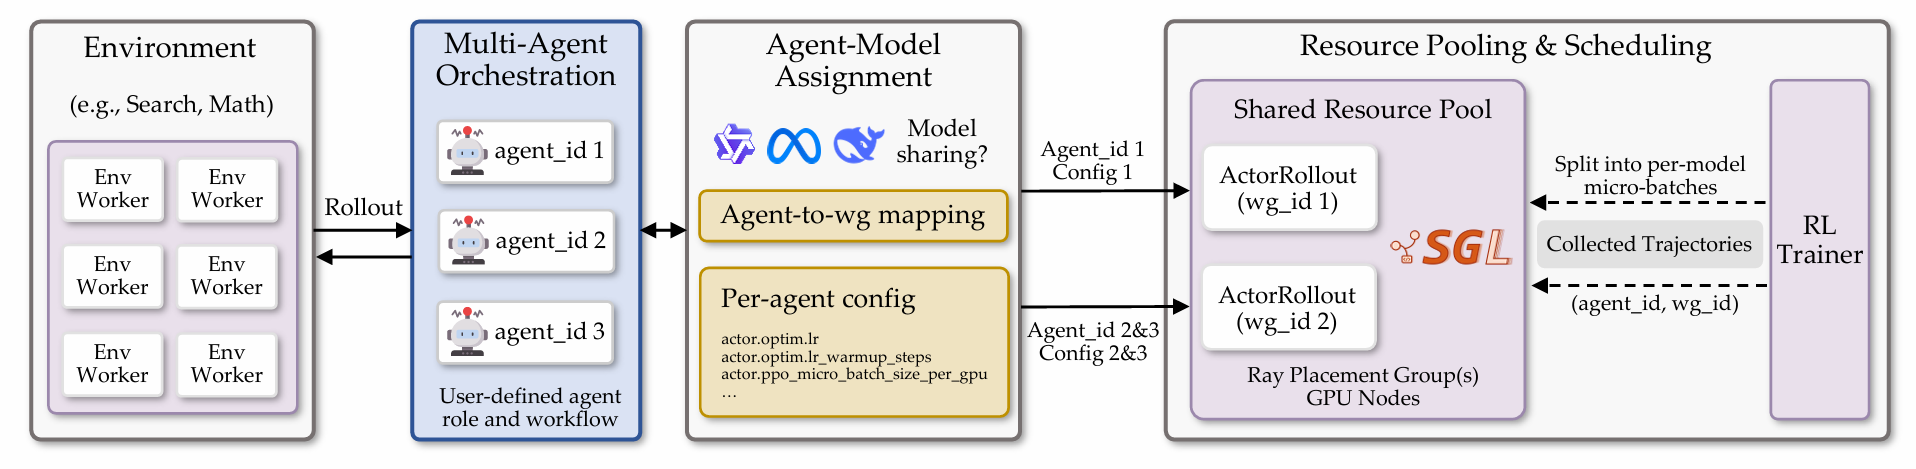
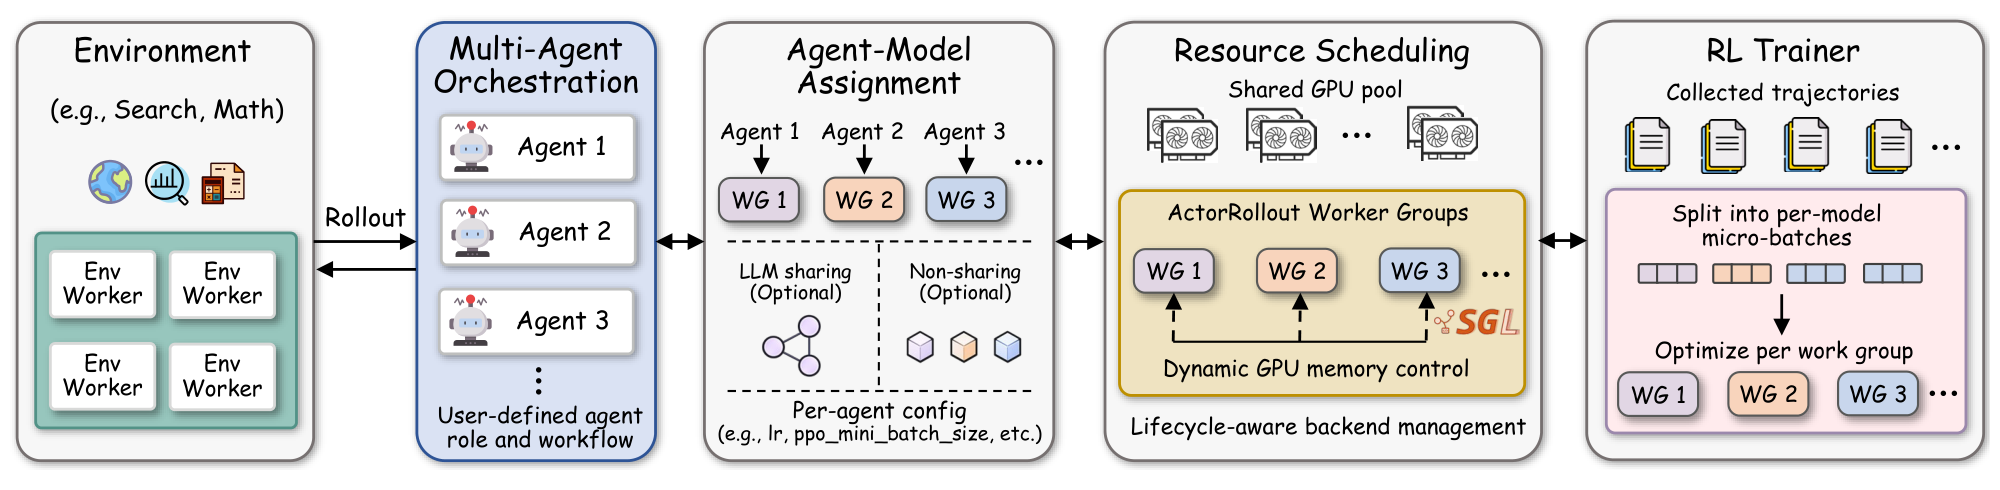
Accepted to NeurIPS 2026 (#84)

diff --git a/website/src/styles.css b/website/src/styles.css
@@ -98,12 +98,13 @@ sup { font-size: .55em; }
 .hero::before { content: ''; position: absolute; z-index: -1; width: 900px; max-width: 100%; height: 550px; top: 0; left: 50%; transform: translateX(-50%); background: radial-gradient(ellipse at 50% 0, #ebdfef9c, transparent 70%); pointer-events: none; }
 .hero-content { text-align: center; }
 .hero-topline { display: flex; flex-wrap: wrap; align-items: center; justify-content: center; gap: 12px; }
-.venue-badge { display: inline-flex; align-items: center; color: var(--accent-strong); border: 1px solid #cdb9d6; background: #f3edf6; padding: 5px 10px; font: 14px var(--mono); border-radius: 4px; letter-spacing: .035em; }
+.venue-badge { display: inline-flex; align-items: center; color: var(--accent-strong); border: 1px solid #cdb9d6; background: #f3edf6; padding: 5px 10px; font: 14px var(--mono); border-radius: 4px; letter-spacing: .035em; white-space: nowrap; }
+.venue-workshop { color: var(--muted); border-color: var(--line); background: transparent; }
 .hero-eyebrow { display: inline-flex; gap: 10px; align-items: center; color: #7d6686; font-size: 10px; letter-spacing: .11em; }
 .hero h1 { margin-top: 18px; }
 .hero-name { display: block; font-size: clamp(48px, 5vw, 64px); font-weight: 600; letter-spacing: -.055em; line-height: 1.1; color: var(--accent); }
 .hero-title { display: block; font-size: clamp(26px, 3.2vw, 42px); letter-spacing: -.04em; line-height: 1.22; margin-top: 12px; font-weight: 500; }
-.hero-description { color: var(--muted); font-size: 15px; margin-top: 18px; }
+.hero-description { display: flex; flex-wrap: wrap; align-items: center; justify-content: center; gap: 8px; color: var(--muted); font-size: 15px; margin-top: 18px; }
 .authors { display: flex; align-items: center; justify-content: center; flex-wrap: wrap; gap: 8px 23px; margin-top: 23px; font-size: 15px; font-weight: 500; }
 .authors a { text-decoration-color: var(--line); text-decoration-line: underline; text-underline-offset: 4px; }
 .authors a:hover { color: var(--accent); text-decoration-color: var(--accent); }

diff --git a/website/index.html b/website/index.html
@@ -50,7 +50,10 @@
         <div class="container hero-content">
           <div class="hero-topline"><span class="eyebrow hero-eyebrow">Multi-agent reinforcement learning</span></div>
           <h1 id="paper-title"><span class="hero-name">Dr. MAS</span><span class="hero-title">Stable Reinforcement Learning<br class="desktop-break" /> for Multi-Agent LLM Systems</span></h1>
-          <p class="hero-description"><span class="venue-badge">NeurIPS 2026</span></p>
+          <p class="hero-description">
+            <span class="venue-badge">NeurIPS 2026</span>
+            <span class="venue-badge venue-workshop">MALGAI @ ICLR 2026</span>
+          </p>
           <div class="authors" aria-label="Paper authors">
             <a href="https://langfengq.github.io/" target="_blank" rel="noopener noreferrer">Lang Feng</a>
             <a href="https://ltzheng.github.io/" target="_blank" rel="noopener noreferrer">Longtao Zheng</a>

diff --git a/README.md b/README.md
@@ -6,9 +6,14 @@
 Dr. MAS: Stable Reinforcement Learning for Multi-Agent LLM Systems
 </h1>
 
+<h3 align="center">
+    <strong>NeurIPS 2026</strong><br>
+    MALGAI @ ICLR 2026
+</h3>
+
 <p align="center">
 <a href="https://langfengq.github.io/DrMAS/">
-<img src="https://img.shields.io/badge/Project-Page-8C569B" alt="Project Page">
+<img src="https://img.shields.io/badge/Project-Website-8C569B" alt="Project Website">
 </a>
 <a href="https://arxiv.org/abs/2602.08847">
 <img src="https://img.shields.io/static/v1?label=arXiv&message=Paper&color=red" alt="arXiv Paper">
@@ -25,22 +30,31 @@ Dr. MAS: Stable Reinforcement Learning for Multi-Agent LLM Systems
 <a href="https://github.com/langfengQ/DrMAS/blob/master/LICENSE">
 <img src="https://img.shields.io/badge/license-Apache%202.0-blue.svg" alt="License">
 </a>
-<!-- <a href="https://github.com/langfengQ/DrMAS/issues">
-<img src="https://img.shields.io/github/issues/langfengQ/DrMAS" alt="GitHub issues">
-</a> -->
 <a href="https://github.com/langfengQ/DrMAS/stargazers">
 <img src="https://img.shields.io/github/stars/langfengQ/DrMAS?style=social" alt="Repo stars">
 </a>
 </p>
 
-The project-page source and visual previews are available in [website/](./website/README.md).
+**News:** 🎉 Dr. MAS has been accepted to **NeurIPS 2026!**
 
-`Dr.MAS` is designed for **end-to-end post-training** of **Multi-Agent LLM Systems** via **Reinforcement Learning (RL)**, enabling multiple LLM-based agents to collaborate on complex reasoning and decision-making tasks.
+Dr. MAS is designed for **end-to-end post-training** of **Multi-Agent LLM Systems** via **Reinforcement Learning (RL)**, enabling multiple LLM-based agents to collaborate on complex reasoning and decision-making tasks.
+
+<p align="center">
+    <a href="./docs/drmas/drmas_overview.png">
+        <img src="./docs/drmas/drmas_overview.png" alt="Figure 1: Dr. MAS uses agent-wise advantage normalization for stable reinforcement learning and supports co-training multiple LLM actors." width="100%">
+    </a>
+    <br>
+    <em>Figure 1. Agent-wise normalization for stable multi-LLM RL.</em>
+</p>
 
 This framework features **flexible agent registry**, **customizable multi-agent orchestration**, **LLM sharing/non-sharing (e.g., heterogeneous LLMs)**, **per-agent configuration**, and **shared resource pooling**, making it well suited for training multi-agent LLM systems with RL.
 
 <p align="center">
-    <img src="./docs/drmas/drmas_framework.png" alt="framework" width="100%">
+    <a href="./docs/drmas/drmas_framework.png">
+        <img src="./docs/drmas/drmas_framework.png" alt="Figure 2: The Dr. MAS framework connects environment workers, multi-agent orchestration, agent-model assignment, shared GPU scheduling, and per-worker-group optimization." width="100%">
+    </a>
+    <br>
+    <em>Figure 2. The Dr. MAS framework for end-to-end multi-agent LLM RL.</em>
 </p>
 
 # Feature Summary
@@ -54,7 +68,7 @@ This framework features **flexible agent registry**, **customizable multi-agent 
 | **Shared Resource Pooling** | ✅ Shared GPU pool across multiple LLM worker groups for efficient hardware utilization<br>✅ Gradient updates applied independently for each worker group during optimization |
 | **Environments**         | ✅ Math<br>✅ Search |
 | **Model Support**        | ✅ Qwen2.5<br>✅ Qwen3<br>✅ LLaMA3.2<br>and more |
-| **RL Algorithms**        | ✅ Dr.MAS<br>✅ GRPO<br>🧪 GiGPO (experimental)<br>🧪 DAPO (experimental) <br>🧪 RLOO (experimental) <br>🧪 PPO (experimental) <br>and more |
+| **RL Algorithms**        | ✅ Dr. MAS<br>✅ GRPO<br>✅ GiGPO<br>✅ DAPO <br>✅ RLOO <br>✅ PPO <br>and more |
 
 # Table of Contents
 
